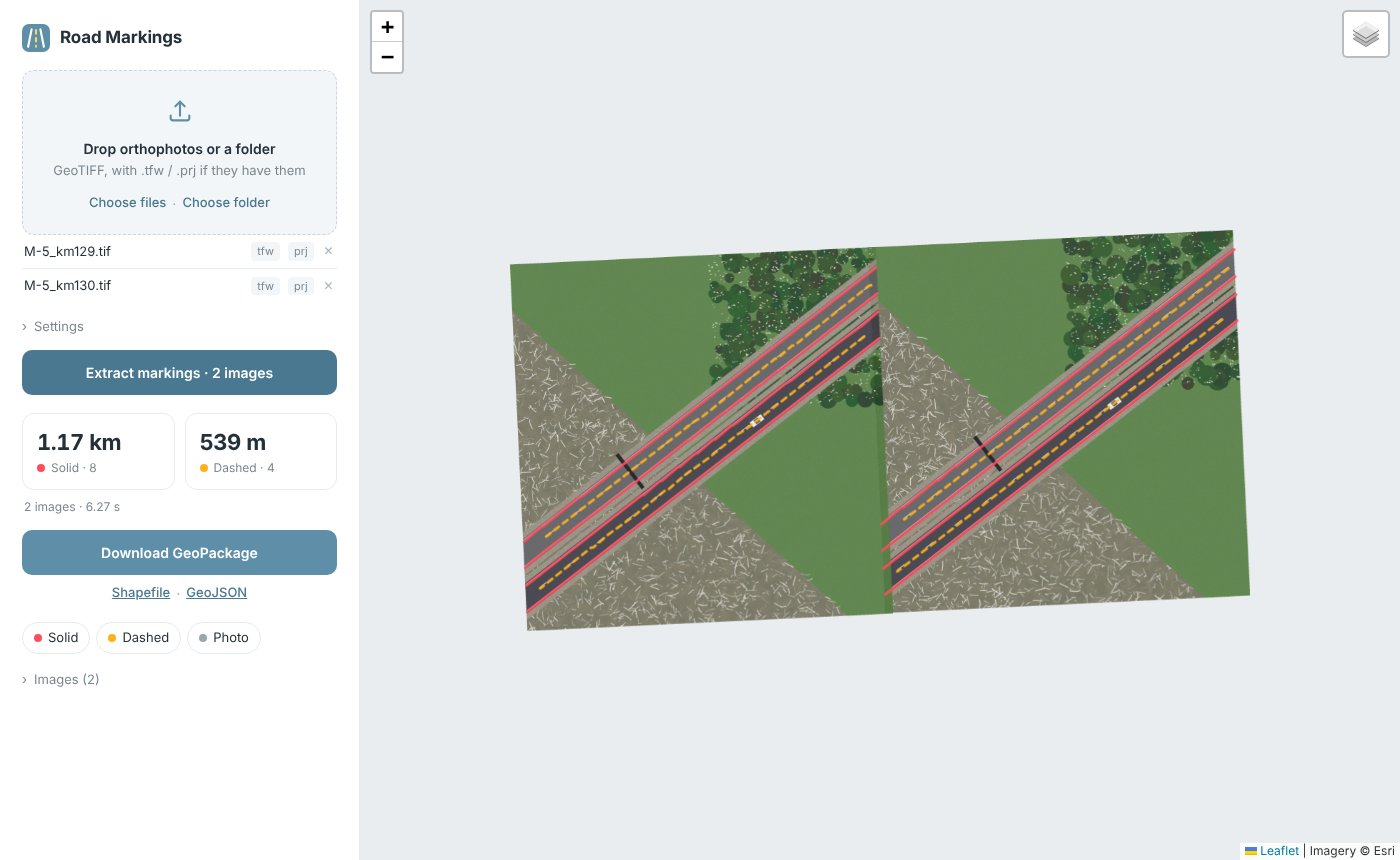
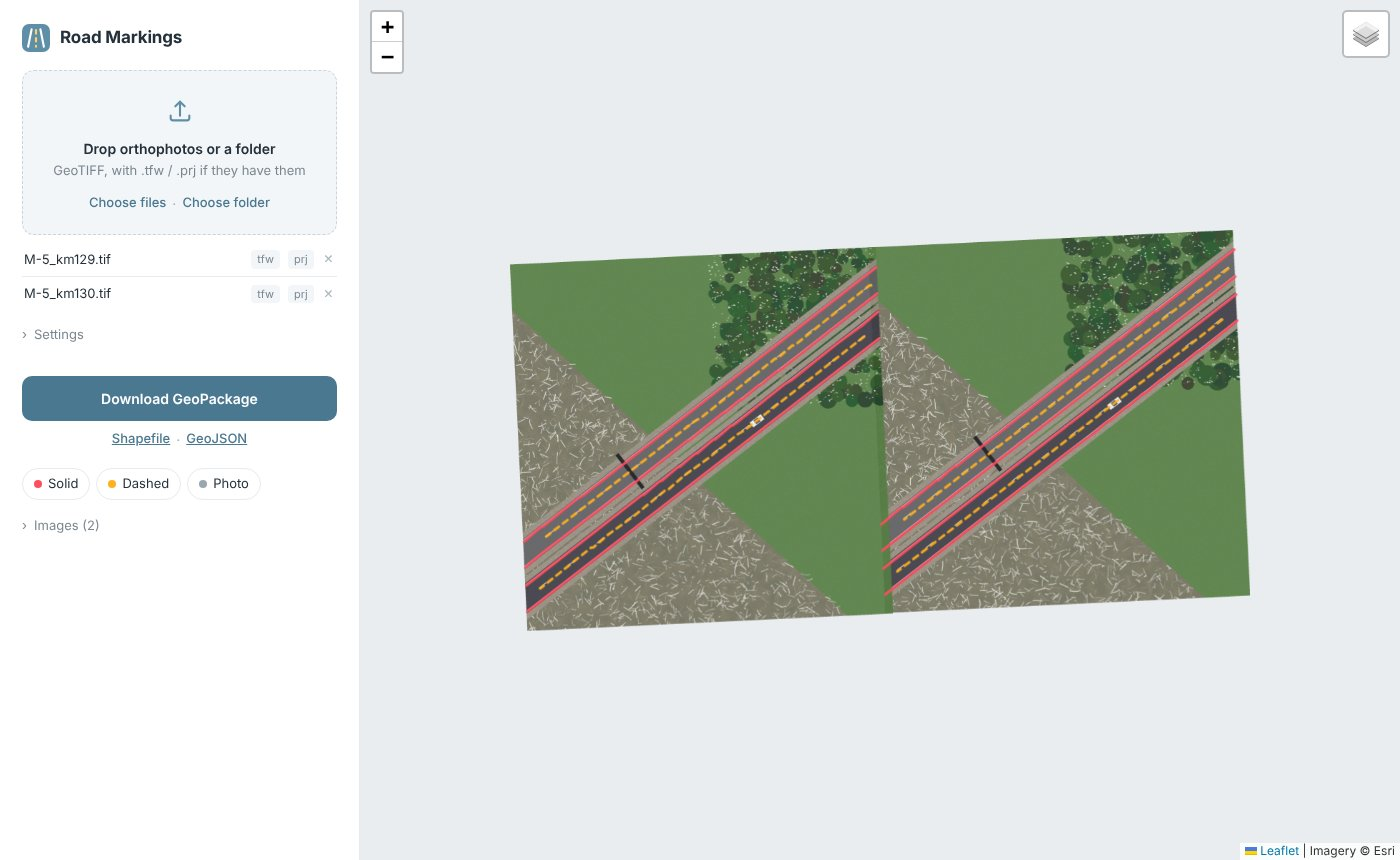
Web: drop result totals; hide extract button once a run starts
The button comes back when the file selection changes.

Claude-Session: https://claude.ai/code/session_01PcDkNg8HCpJcsC3BZD5yTE

diff --git a/src/aerial_markings/web/static/index.html b/src/aerial_markings/web/static/index.html
@@ -67,12 +67,7 @@
   .status { font-size: 13px; color: var(--muted); margin-top: 8px; overflow: hidden; text-overflow: ellipsis; white-space: nowrap; }
   .error { background: var(--err); color: var(--err-ink); padding: 10px 12px; border-radius: 10px; font-size: 13px; }
 
-  .tiles { display: grid; grid-template-columns: 1fr 1fr; gap: 10px; }
-  .tile { border: 1px solid var(--line); border-radius: var(--radius); padding: 12px 14px; }
-  .tile b { display: block; font-size: 22px; font-weight: 650; letter-spacing: -.02em; font-variant-numeric: tabular-nums; }
-  .tile span { font-size: 12px; color: var(--muted); display: flex; align-items: center; gap: 6px; }
   .dot { width: 8px; height: 8px; border-radius: 50%; display: inline-block; }
-  .meta { font-size: 12px; color: var(--muted); margin: 8px 2px 0; }
   .more { display: flex; justify-content: center; gap: 6px; color: var(--faint); margin-top: 8px; }
 
   .chips { display: flex; flex-wrap: wrap; gap: 6px; }
@@ -146,13 +141,6 @@
     <div id="errorBox" class="error hidden"></div>
 
     <section id="results" class="hidden">
-      <div class="tiles">
-        <div class="tile"><b id="solidLen">0</b><span><i class="dot" style="background:var(--solid)"></i><span id="solidCount">Solid</span></span></div>
-        <div class="tile"><b id="dashedLen">0</b><span><i class="dot" style="background:var(--dashed)"></i><span id="dashedCount">Dashed</span></span></div>
-      </div>
-      <p class="meta" id="meta"></p>
-
-      <div style="height:14px"></div>
       <a class="primary" id="dlMain" download>Download GeoPackage</a>
       <div class="more" id="dlMore"></div>
 
@@ -235,6 +223,7 @@ function render() {
   $('orphans').textContent = orphans.length ? `No image found for ${orphans.map(o => o.name).join(', ')}` : '';
   $('orphans').classList.toggle('hidden', !orphans.length);
   $('go').disabled = tifs.length === 0;
+  $('go').classList.remove('hidden');                // a new selection can be extracted again
   $('go').textContent = tifs.length > 1 ? `Extract markings · ${tifs.length} images` : 'Extract markings';
 }
 
@@ -261,7 +250,7 @@ $('form').addEventListener('submit', async e => {
   files.forEach(f => fd.append('files', f));
   fd.append('crs', $('crs').value);
   fd.append('vehicles', $('vehicles').checked);
-  $('go').disabled = true;
+  $('go').classList.add('hidden');
   $('errorBox').classList.add('hidden');
   $('results').classList.add('hidden');
   $('progressBox').classList.remove('hidden');
@@ -278,6 +267,7 @@ function setProgress(f, msg) { $('bar').style.width = (f * 100) + '%'; $('status
 function fail(msg) {
   $('progressBox').classList.add('hidden');
   $('errorBox').textContent = msg; $('errorBox').classList.remove('hidden');
+  $('go').classList.remove('hidden');
   $('go').disabled = files.size === 0;
 }
 
@@ -289,7 +279,6 @@ async function poll(id) {
   setProgress(job.progress, n > 1 ? `${Math.min(job.current + 1, n)} of ${n} · ${step}` : step);
   if (job.status !== 'done') return setTimeout(() => poll(id), 700);
   $('progressBox').classList.add('hidden');
-  $('go').disabled = false;
   show(id, job);
 }
 
@@ -329,16 +318,7 @@ async function show(id, job) {
   photos.addTo(map);
   if (bounds) map.fitBounds(bounds, { padding: [20, 20] });
 
-  const s = job.stats, bt = s.by_type || {};
-  for (const t of ['solid', 'dashed']) {
-    const v = bt[t] || { count: 0, length_m: 0 };
-    $(`${t}Len`).textContent = fmtLen(v.length_m);
-    $(`${t}Count`).textContent = `${LABELS[t]} · ${v.count}`;
-  }
   const failed = job.images.length - done.length;
-  $('meta').textContent = [done.length > 1 ? plural(done.length, 'image') : null, `${s.total_s} s`,
-                           failed ? `${failed} failed` : null].filter(Boolean).join(' · ');
-
   $('dlMain').href = url(job.files.gpkg);
   $('dlMore').innerHTML = [['shp', 'Shapefile'], ['geojson', 'GeoJSON']].filter(([k]) => job.files[k])
     .map(([k, label]) => `<a class="link" href="${url(job.files[k])}" download>${label}</a>`).join('·');
